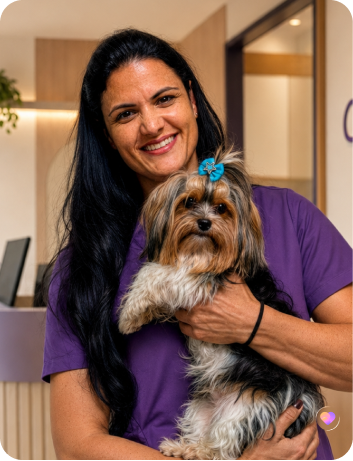
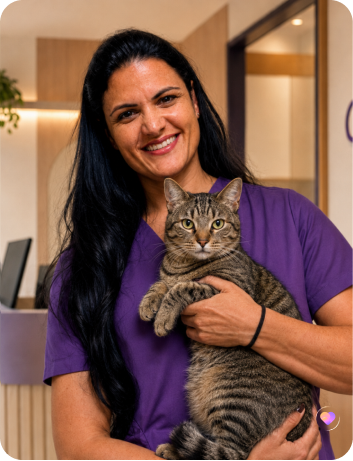
Atualiza consultório felino e equipe

diff --git a/src/App.jsx b/src/App.jsx
@@ -464,14 +464,14 @@ function Services() {
 
 function CareBanner() {
   return (
-    <section className="care-banner" aria-label="Capacidade de cuidado">
+    <section className="care-banner" aria-label="Consultório exclusivo para gatos">
       <div className="container care-banner-inner">
         <article className="care-card">
           <img className="care-mark" src={`${ASSET}/mark.png`} alt="" />
-          <h2>Capacidade de cuidar em cada necessidade</h2>
+          <h2>Consultório exclusivo para gatos</h2>
           <p>
-            Cada atendimento é conduzido de forma individualizada, considerando o
-            histórico, os sinais clínicos e as necessidades específicas de cada paciente.
+            Separar gatos de cães reduz cheiros, sons e contato visual que podem causar
+            estresse, deixando a avaliação mais tranquila, segura e precisa.
           </p>
           <Button>Agendar uma consulta</Button>
         </article>

diff --git a/src/styles.css b/src/styles.css
@@ -472,7 +472,7 @@ p {
 .care-banner {
   position: relative;
   min-height: 771px;
-  background: url("/assets/care-banner.png") center / cover no-repeat;
+  background: url("/assets/care-banner-cat.png") center / cover no-repeat;
 }
 
 .care-banner-inner {
@@ -1812,7 +1812,7 @@ p {
   }
 
   .care-banner {
-    background-position: 57% center;
+    background-position: 78% center;
   }
 
   .care-card {
